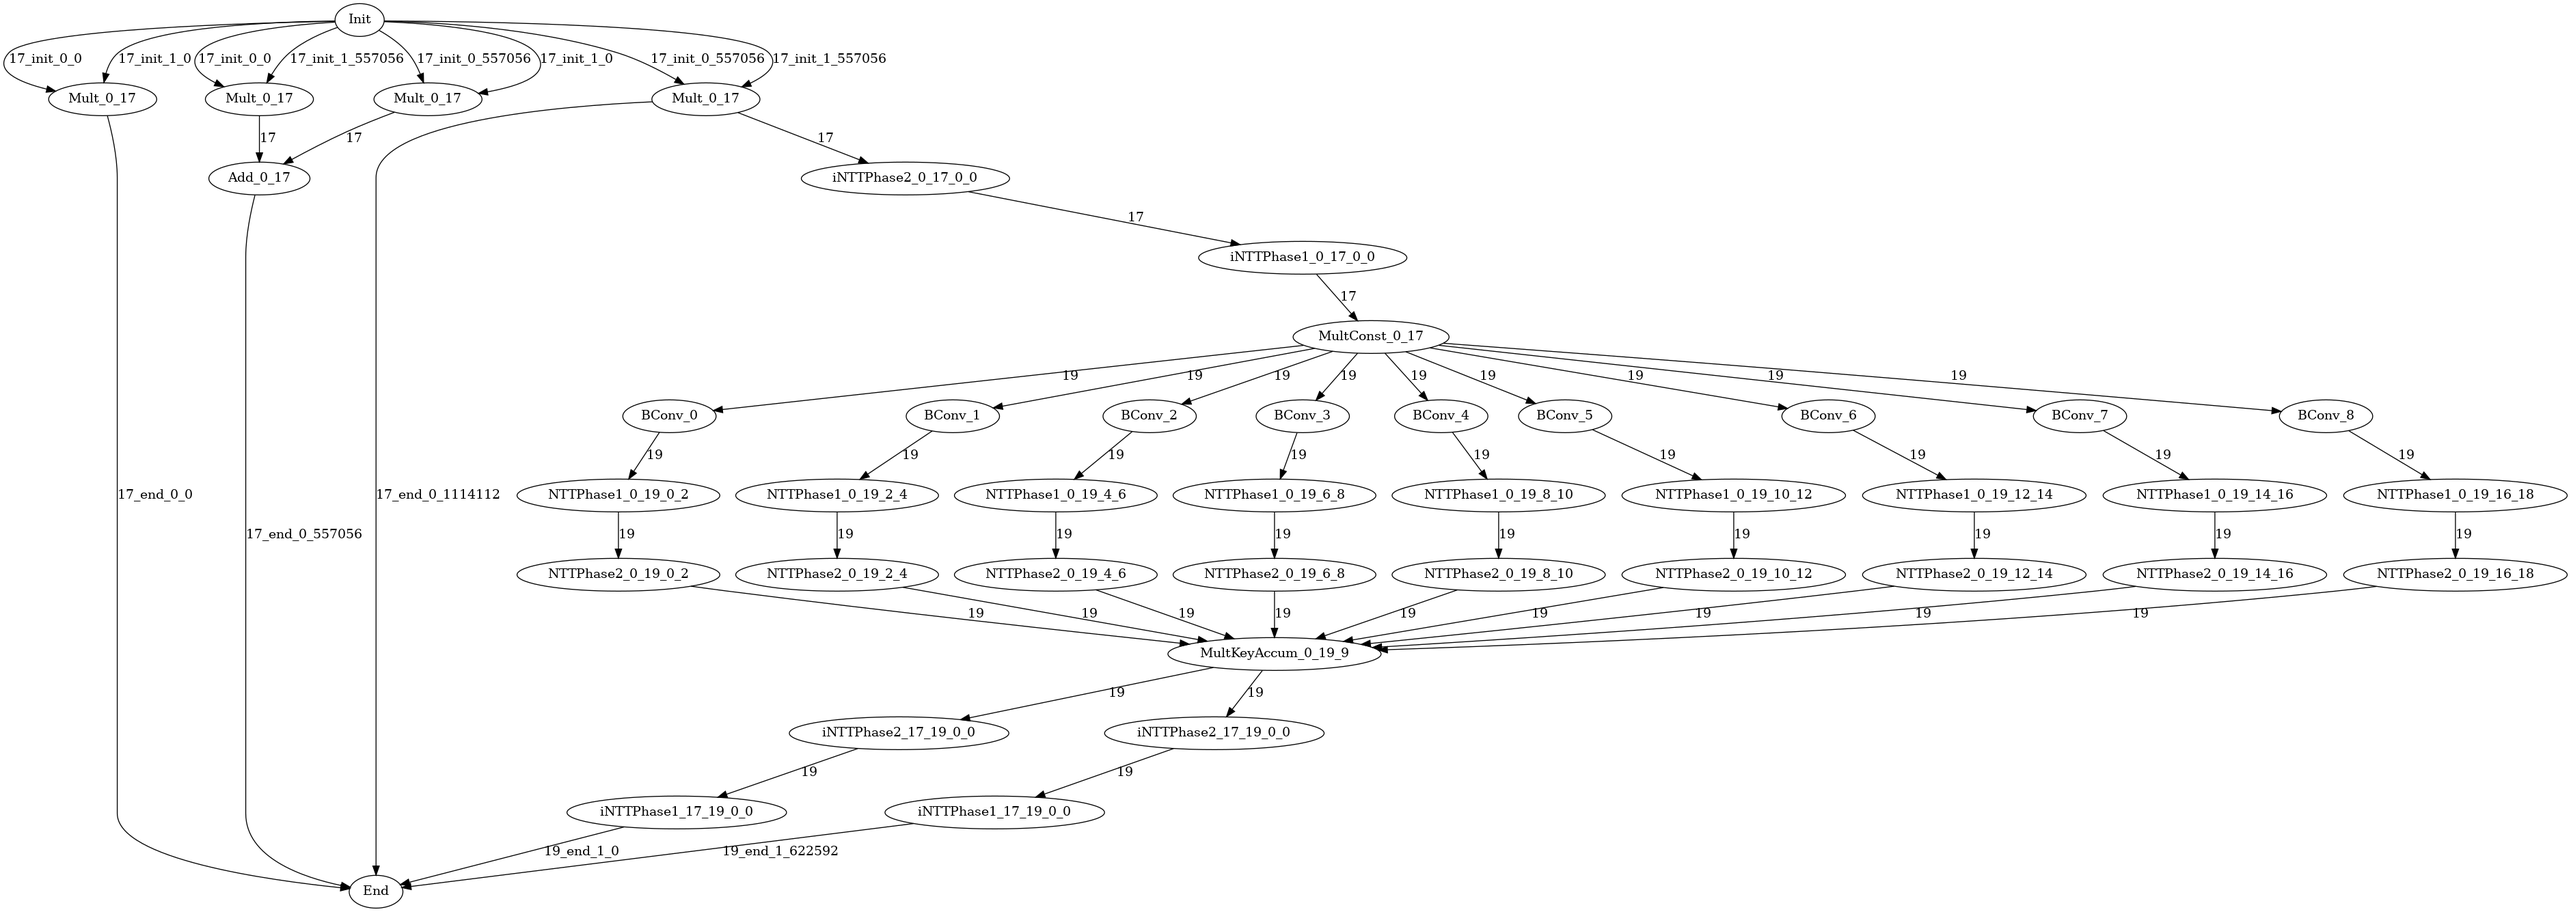
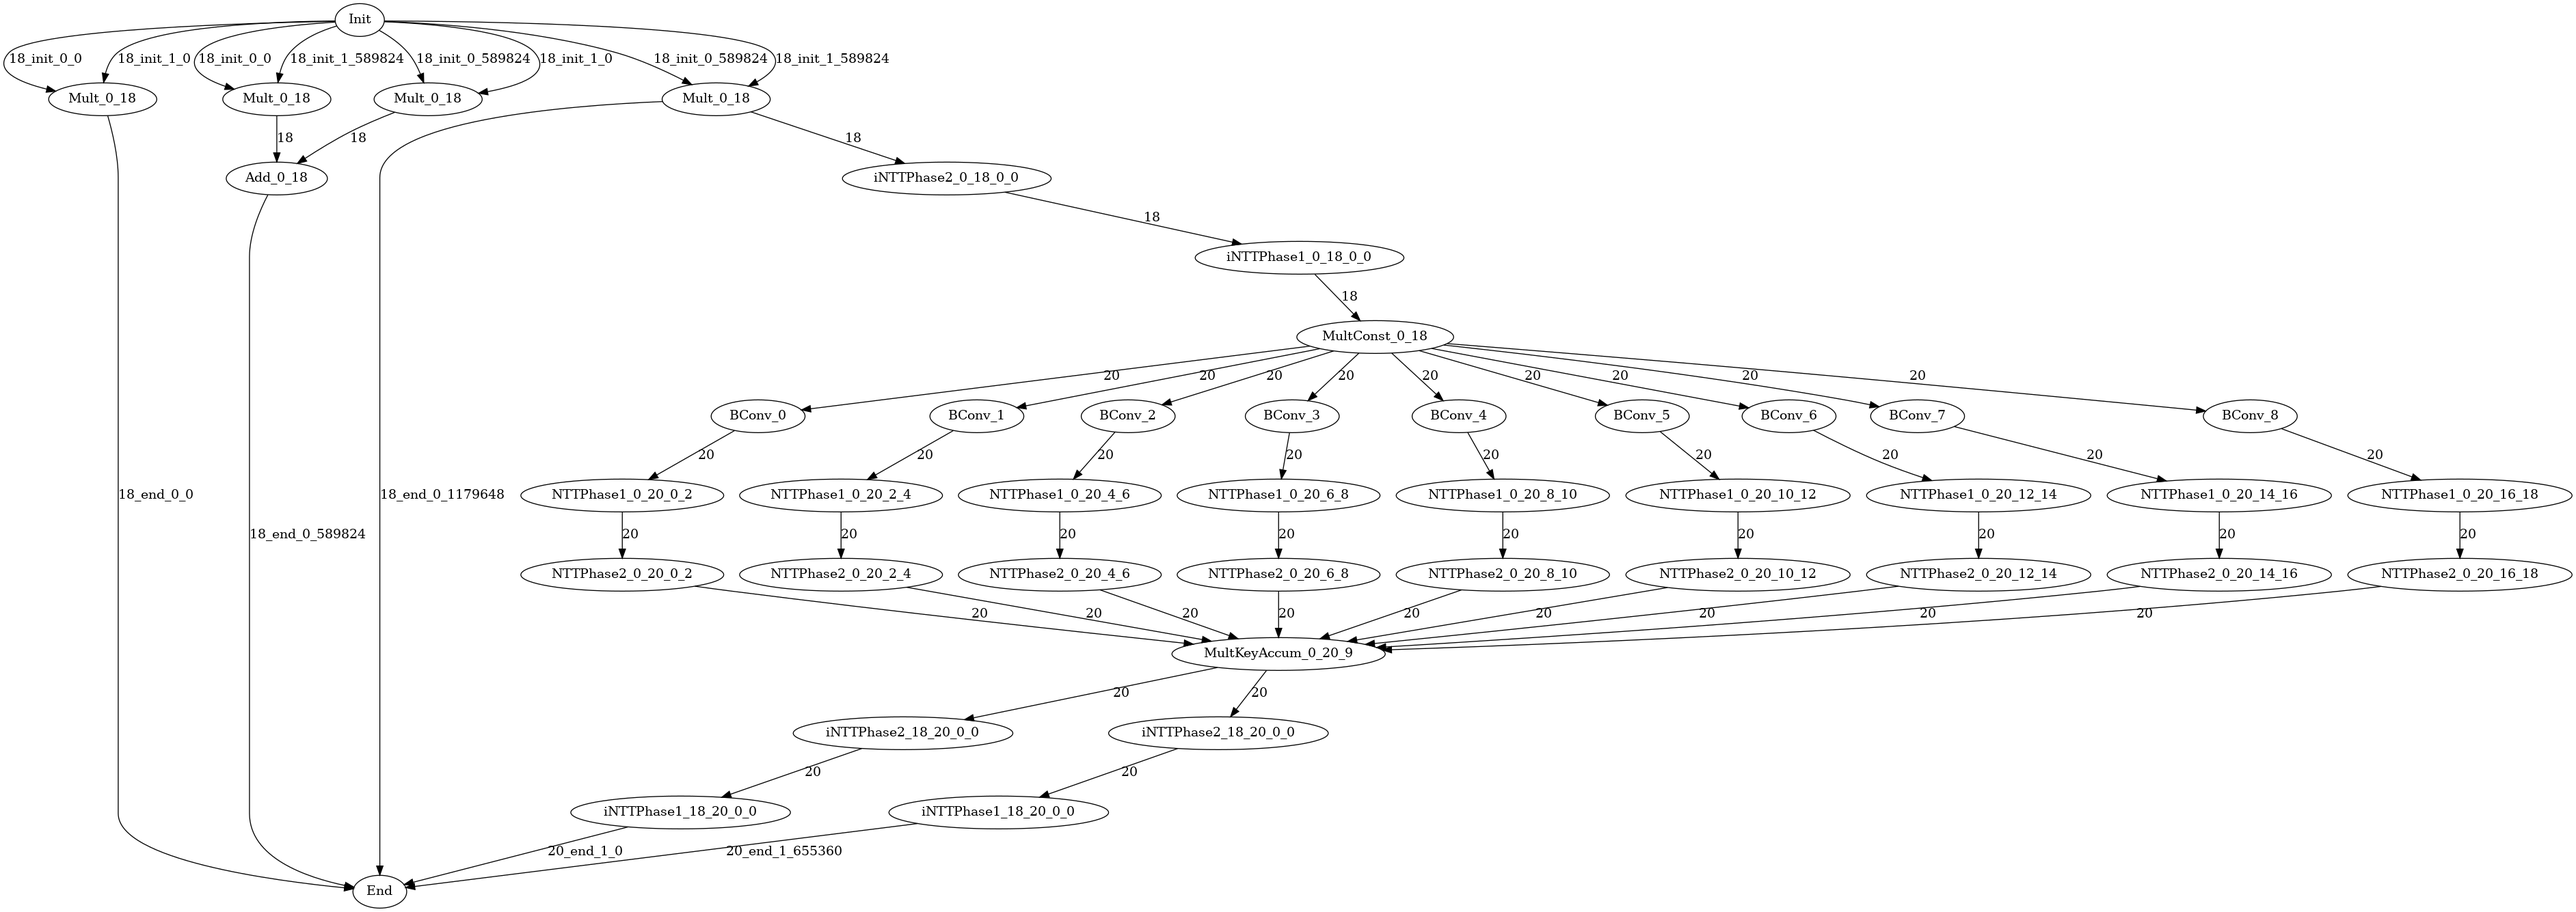
run with logN=15,L=18,dnum=9

diff --git a/example/ckks_HMult/example.py b/example/ckks_HMult/example.py
@@ -2,7 +2,7 @@ from pypolyfhe import PolyFHE, Params
 import os
 
 pf = PolyFHE()
-prm = Params(N=2**15, L=17, dnum=9)
+prm = Params(N=2**15, L=18, dnum=9)
 # prm = Params(N=2**16, L=30, dnum=5)
 print(prm)
 
